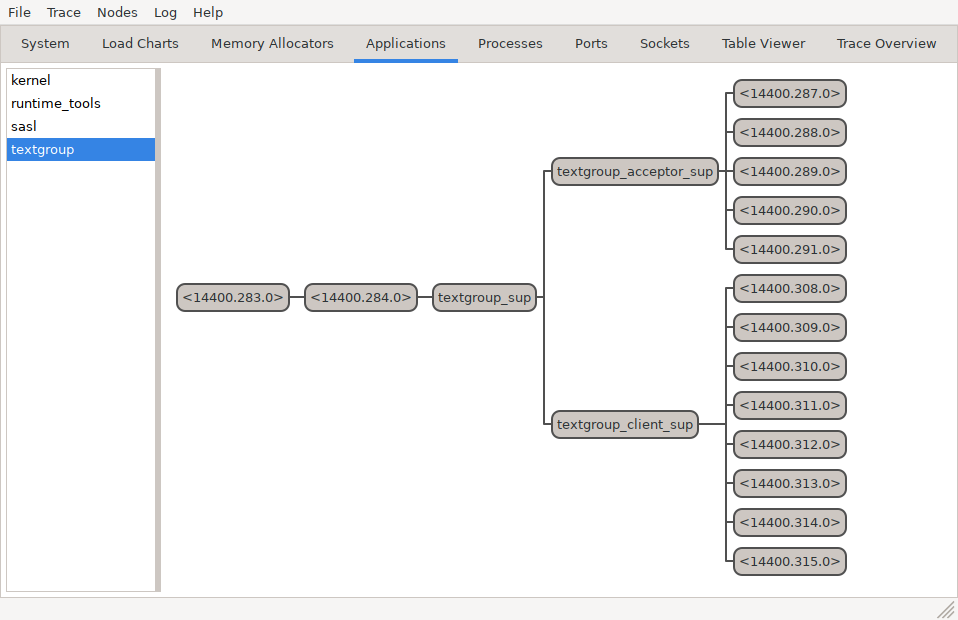
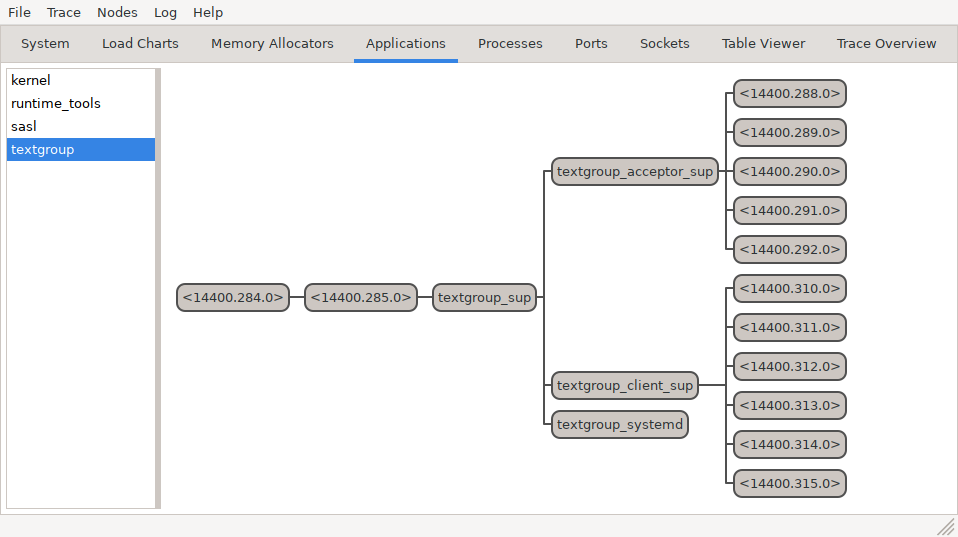
Add support for integrating with systemd
Support systemd's "notify" start-up type and watchdog notifications.

Changed region(s): [[0.0, 0.0, 1.0, 1.0], [0.1816, 0.4469, 0.5752, 0.5959]]

diff --git a/README.md b/README.md
@@ -29,26 +29,19 @@ application for Erlang/OTP newcomers.
 
 ## Creating a Textgroup Release
 
-    $ rebar3 as prod tar
+    $ rebar3 release
 
-## Deploying a Textgroup Release
-
-    $ mkdir textgroup
-    $ cd textgroup
-    $ tar -xzf "$src_dir/_build/prod/rel/textgroup/textgroup-0.1.0.tar.gz"
-
-## Running a Textgroup Release
-
-    $ bin/textgroup foreground
+See the [Textgroup documentation][textgroup] for hints on how to deploy and run
+such a release.
 
 ## Notes for Developers
 
 The Textgroup service uses the [supervision tree][supervision] shown below: The
-[main][textgroup_sup] supervisor starts two supervisor childs,
-[one][acceptor_sup] for supervising a fixed-size pool of [five][pool_size] TCP
-connection acceptors, and [another][client_sup] one for supervising dynamically
-created connection handlers, one per client (there's eight of them, in this
-example).
+[main][textgroup_sup] supervisor starts a worker child (for integrating with
+systemd) and two supervisor childs, [one][acceptor_sup] for supervising a
+fixed-size pool of [five][pool_size] TCP connection acceptors, and
+[another][client_sup] one for supervising dynamically created connection
+handlers, one per client (there's six of them, in this example).
 
 ![Supervision tree][tree]
 
